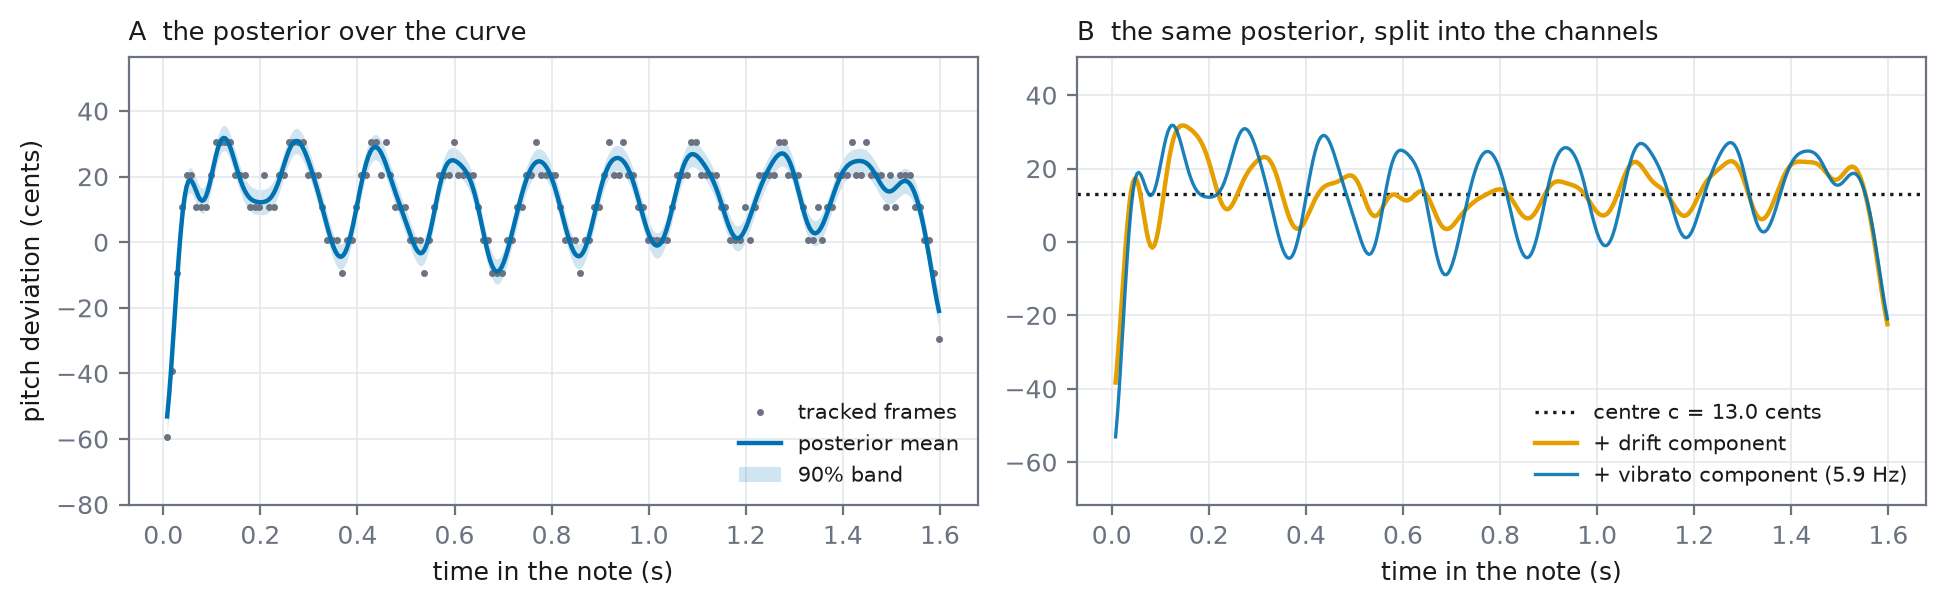
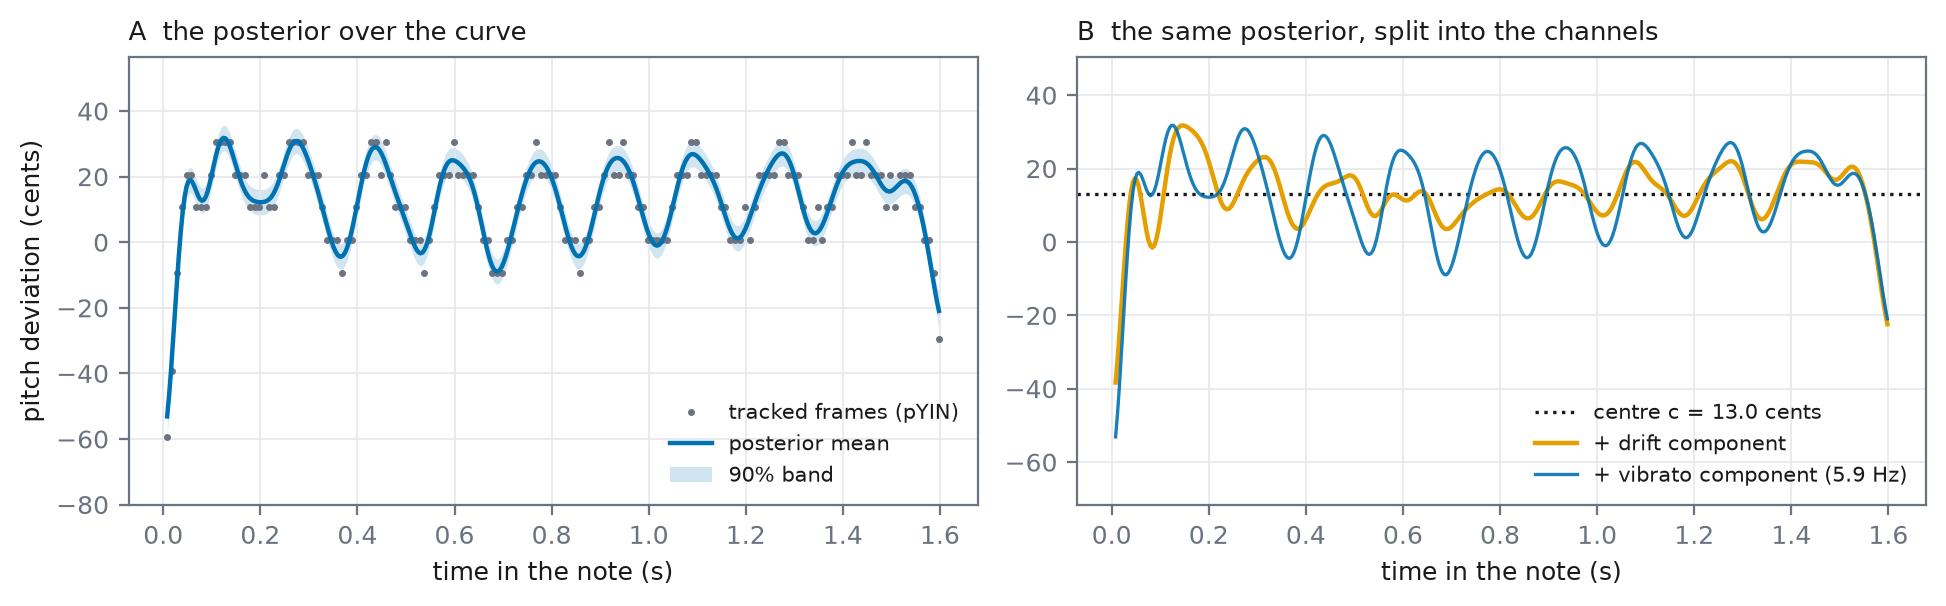
Example-note slide: pYIN named in the legend, GT's role stated
Ray's question: are the tracked frames pYIN, and where is the ground
truth? Legend now says 'tracked frames (pYIN)'; the caption states the
fit runs on the tracked frames (the pipeline's input) and that the
ground-truth annotation is used only for evaluation. 34 slides.

Changed region(s): [[0.3392, 0.6535, 0.4933, 0.7426], [0.3392, 0.7723, 0.4625, 0.802]]

diff --git a/docs/slides/deck_week.tex b/docs/slides/deck_week.tex
@@ -453,9 +453,11 @@
 \begin{frame}{Example note: posterior mean and components}
   \figslotw{example_note_posterior.png}{0.9}{example note}
   \vspace{-2mm}
-  {\small\textcolor{muted}{One cello note. A: the posterior over the
-  curve. B: the same posterior split into its components; the channel
-  read-outs come from this split.}}
+  {\small\textcolor{muted}{One cello note, fit on the pYIN-tracked
+  frames (the pipeline's input; the ground-truth annotation is used only
+  for evaluation). A: the posterior over the curve. B: the same
+  posterior split into its components; the channel read-outs come from
+  this split.}}
 \end{frame}
 
 % ---------------------------------------------------------------------

diff --git a/scripts/make_sm_explainer.py b/scripts/make_sm_explainer.py
@@ -166,7 +166,7 @@ def main() -> None:
 
     # GP-only two-panel version for the zemi deck (no sine anywhere)
     fig, (axA, axB) = plt.subplots(1, 2, figsize=(9.8, 3.1))
-    axA.plot(tt, x, ".", ms=3, color=MUTED, label="tracked frames")
+    axA.plot(tt, x, ".", ms=3, color=MUTED, label="tracked frames (pYIN)")
     axA.plot(tg, m_curve, color=BLUE, lw=1.6, label="posterior mean")
     axA.fill_between(tg, m_curve - 1.645 * np.sqrt(v_curve),
                      m_curve + 1.645 * np.sqrt(v_curve),
